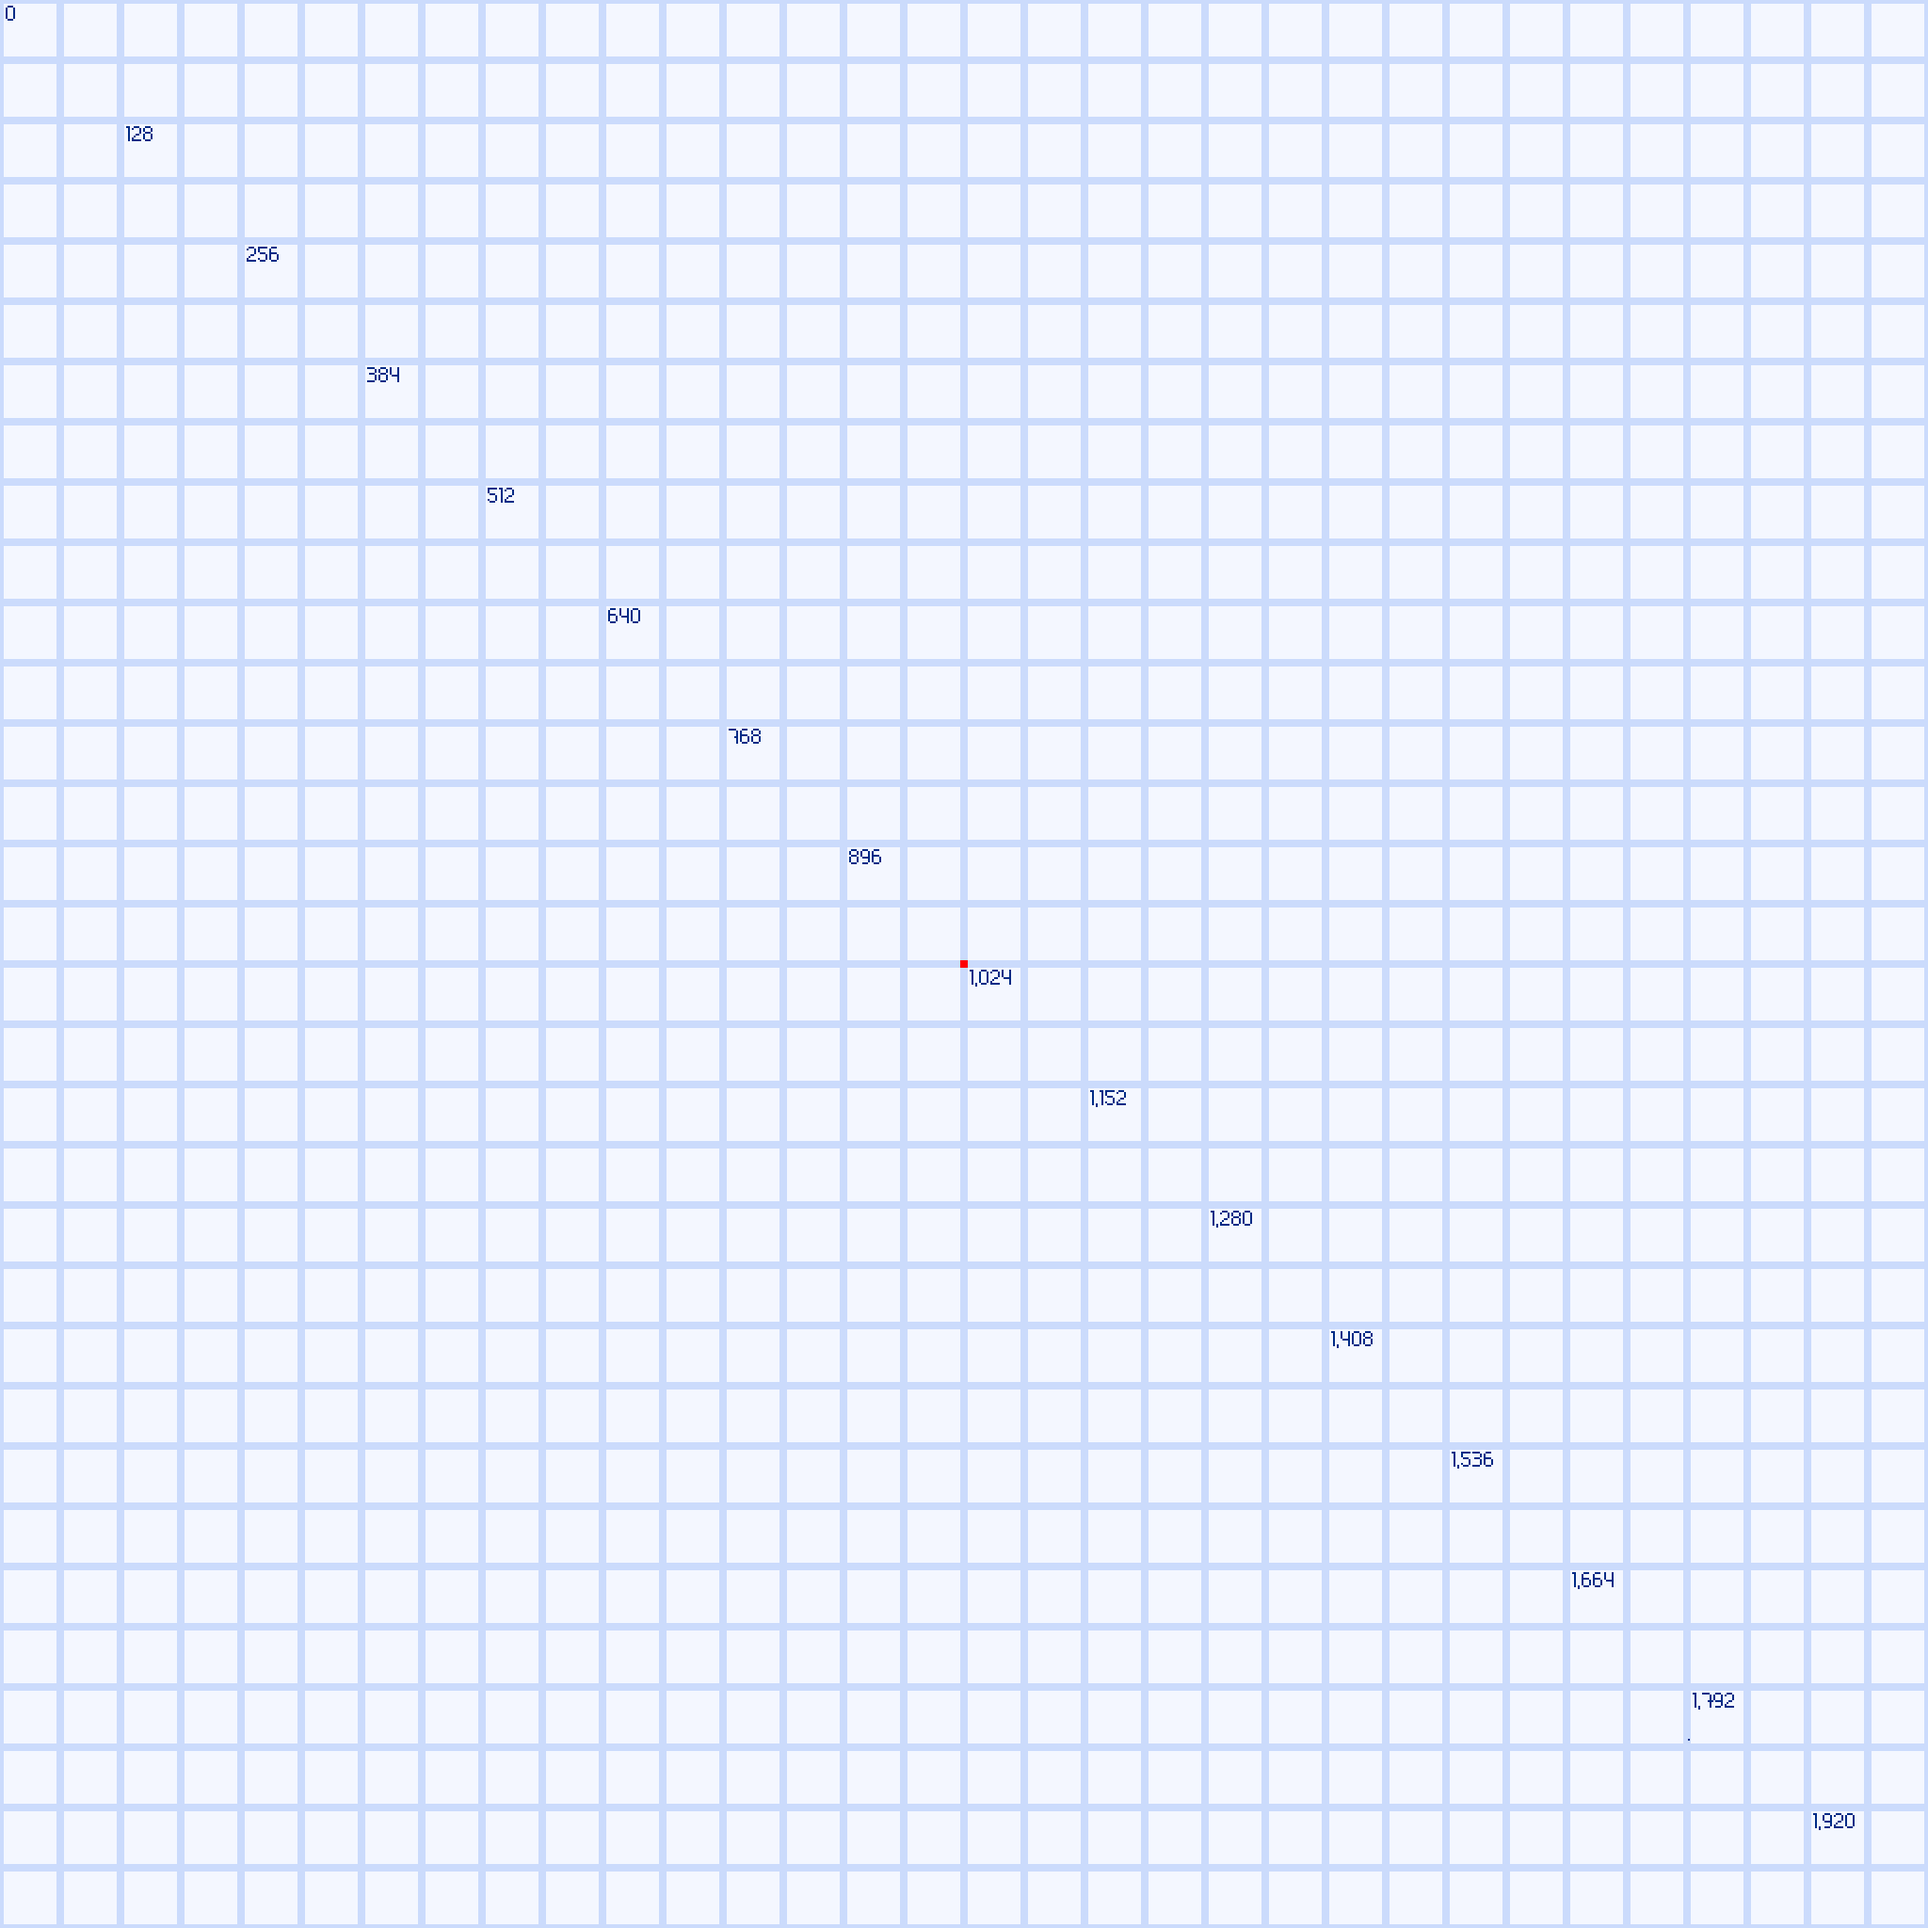
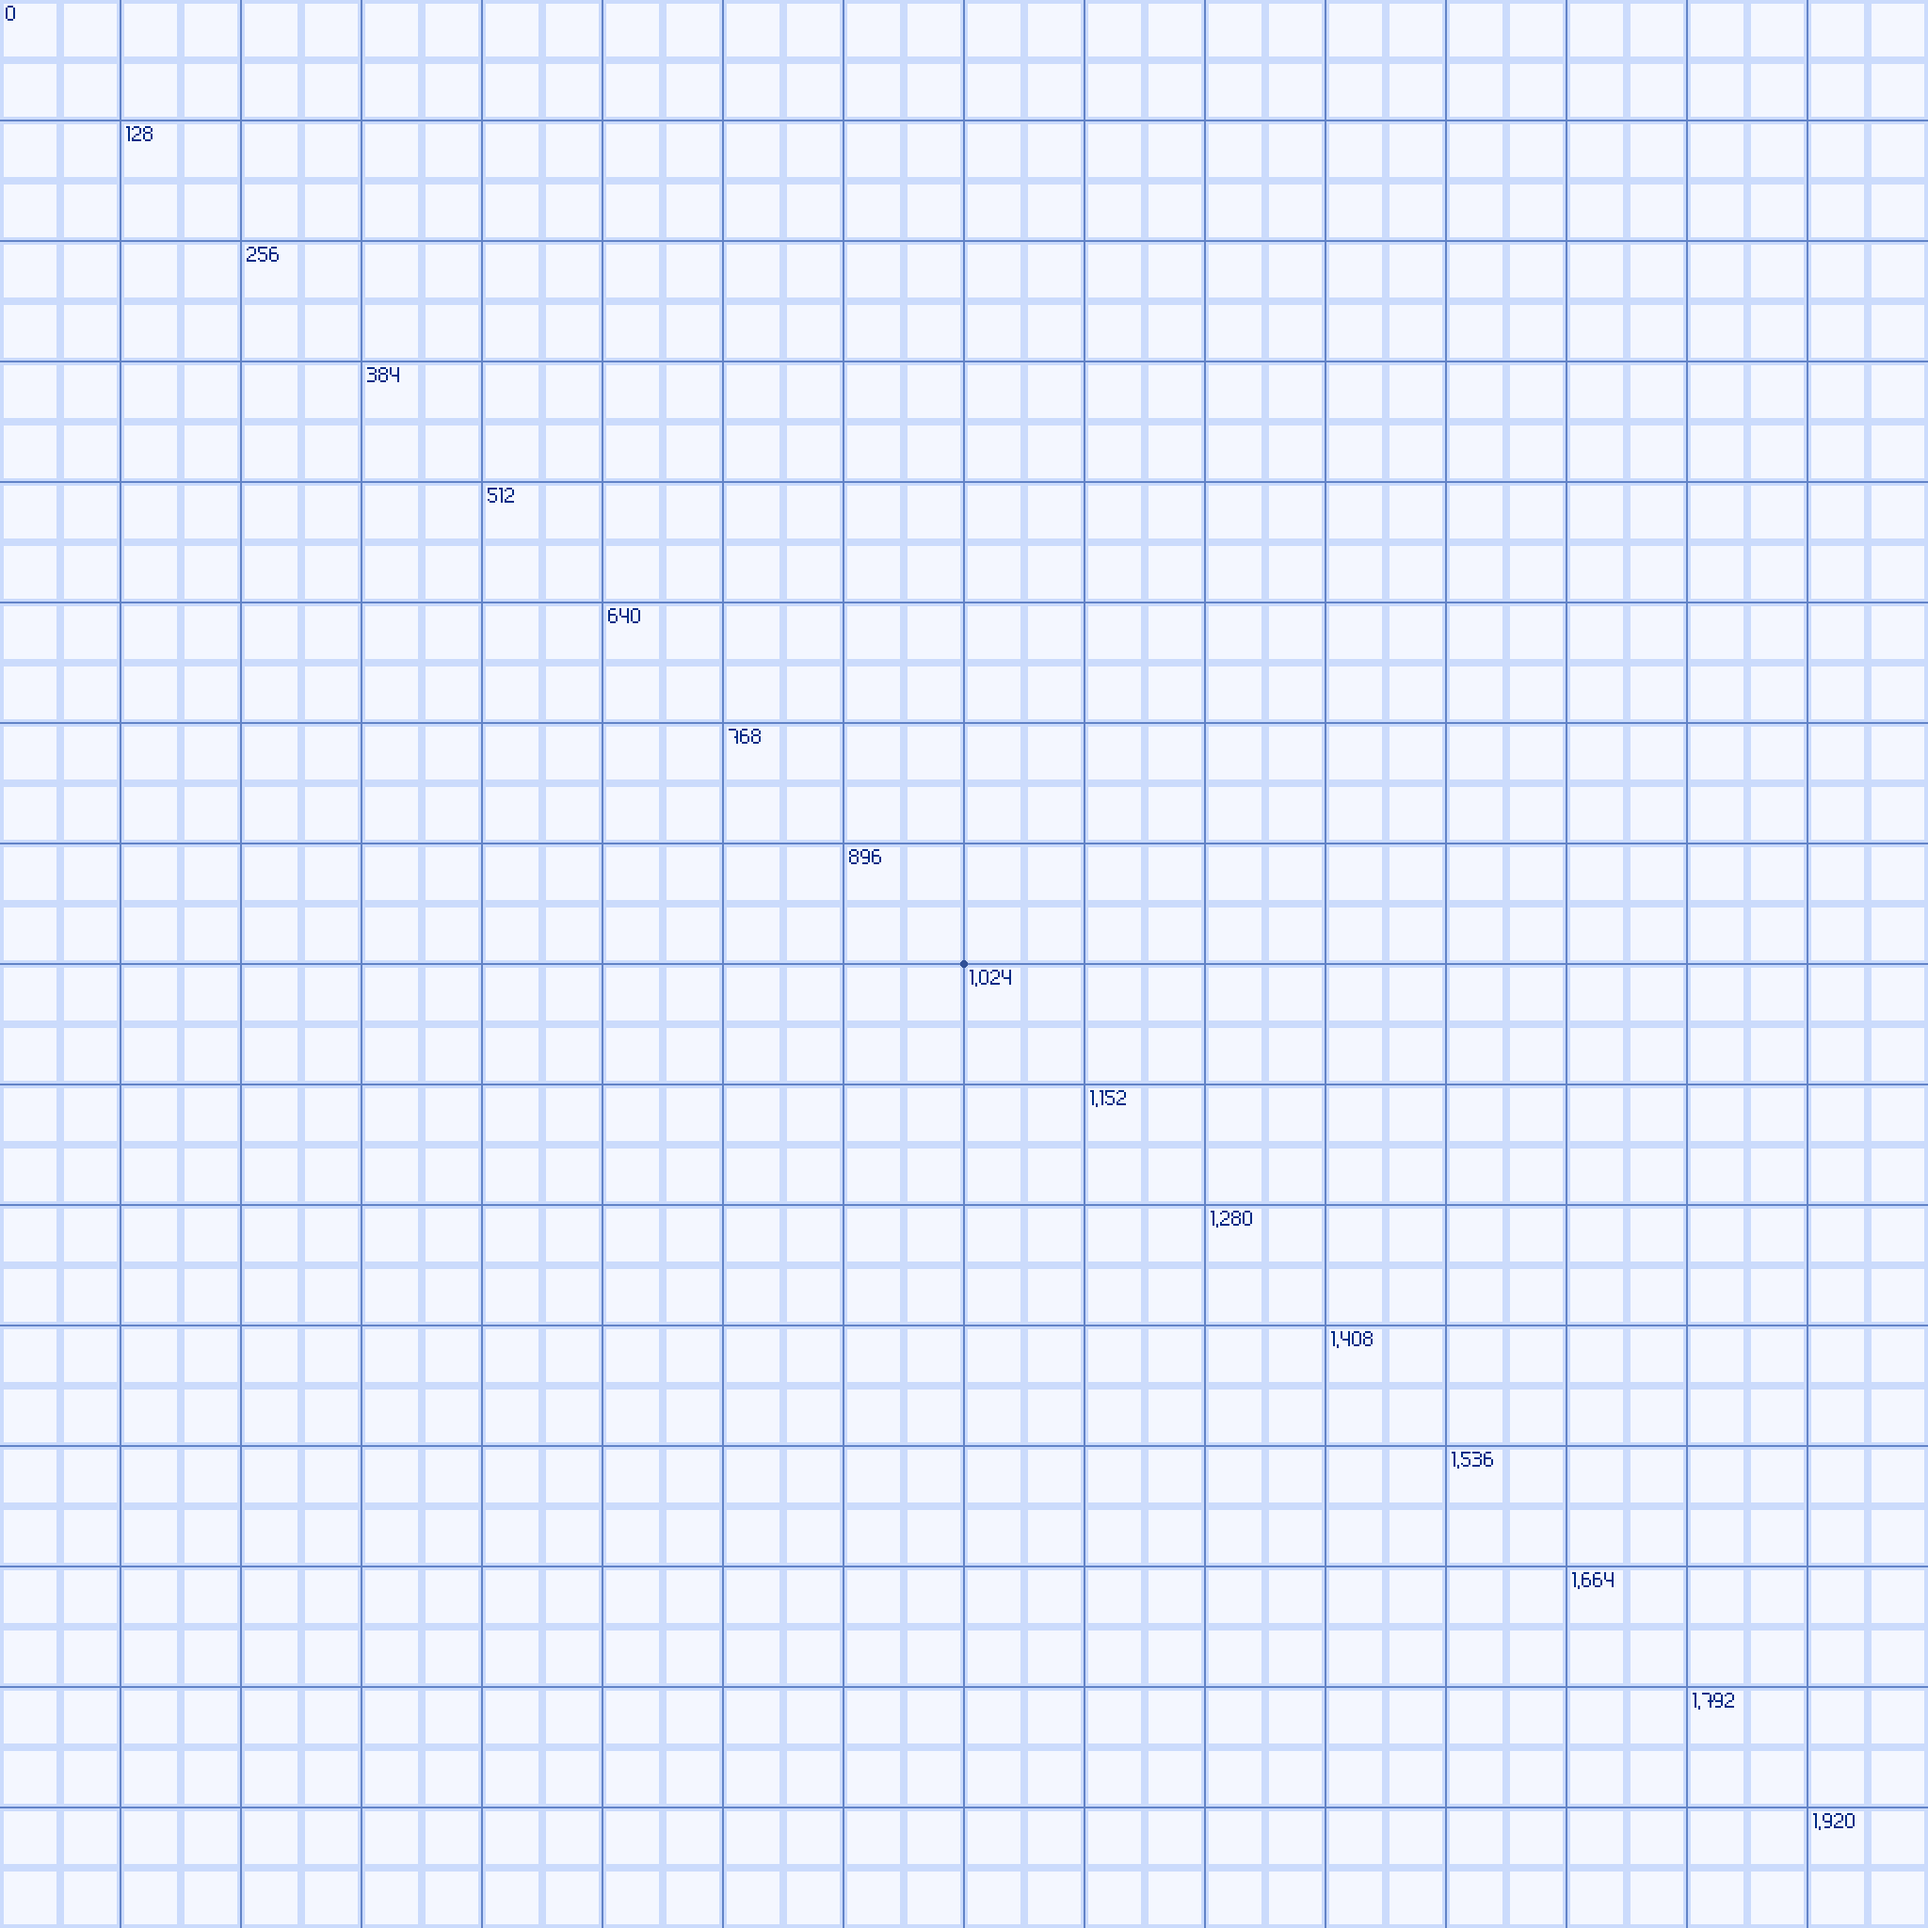
feat: add player character with camera and update assets

diff --git a/scripts/player/PlayerVelocity.cs b/scripts/player/PlayerVelocity.cs
@@ -1,0 +1,33 @@
+using Godot;
+
+public partial class PlayerVelocity : CharacterBody2D
+{
+	[Export] // 初始生成坐标
+	public Vector2 SpawnPoint = new(384f, 384f);
+	private float speed = 275.0f;
+
+    public override void _Ready()
+    {
+        GlobalPosition = SpawnPoint;
+		ZIndex = 255;
+    }
+
+	public override void _PhysicsProcess(double delta)
+	{
+		Vector2 velocity = Vector2.Zero;
+
+		if (Input.IsActionPressed("ui_left"))  velocity.X -= 1;
+		if (Input.IsActionPressed("ui_right")) velocity.X += 1;
+		if (Input.IsActionPressed("ui_up"))    velocity.Y -= 1;
+		if (Input.IsActionPressed("ui_down"))  velocity.Y += 1;
+
+		if (velocity != Vector2.Zero)
+		{
+			velocity = velocity.Normalized() * speed;
+		}
+
+		Velocity = velocity;
+
+		MoveAndSlide();
+	}
+}

diff --git a/scripts/player/Camera.cs b/scripts/player/Camera.cs
@@ -1,0 +1,14 @@
+using Godot;
+
+public partial class Camera : Camera2D
+{
+	public override void _Ready()
+	{
+
+	}
+
+	public override void _Process(double delta)
+	{
+		
+	}
+}
